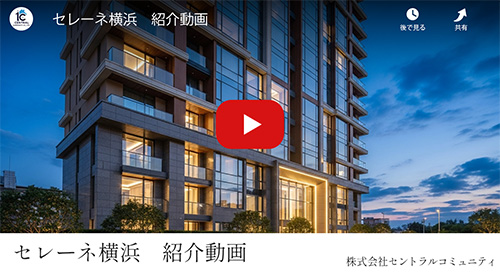
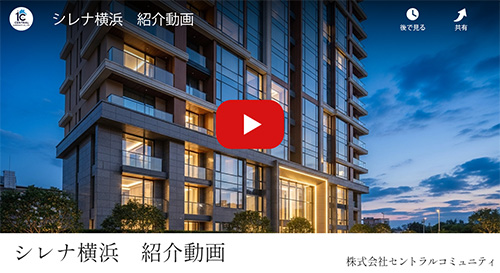
微調整とデータの整理

Changed region(s): [[0.12, 0.8791, 0.51, 0.967], [0.09, 0.0293, 0.42, 0.1172], [0.03, 0.9084, 0.06, 0.967]]

diff --git a/index.html b/index.html
@@ -6,7 +6,7 @@
   <meta name="viewport" content="width=device-width, initial-scale=1.0">
   <meta name="robots" content="noindex,nofollow">
   <title>CIRENA横浜｜神奈川県横浜市の新築分譲マンションならセントラルコミュニティ</title>
-  <meta name="description" content="現代的な美しさと贅沢な静けさが調和するCIRENA。海と空に開かれた眺望、都市の利便性、そして上質な住空間が新たな暮らしを輝かせます。">
+  <meta name="description" content="現代的な美しさと贅沢な静けさが調和するCIRENA横浜。海と空に開かれた眺望、都市の利便性、そして上質な住空間が新たな暮らしを輝かせます。">
   <meta name="keywords"
     content="マンション, タワーレジデンス, 高級マンション, 分譲マンション, モダンデザイン, 洗練, 眺望, オーシャンビュー, 静か, 贅沢, 資産価値, ラグジュアリー, 横浜, みなとみらい, CIRENA">
   <link rel="stylesheet" href="./css/reset.css">
@@ -121,7 +121,7 @@
       <p class="information-title">紹介動画</p>
       <a href="#x"><img src="./img/information-movie.jpg" width="500" height="273"
           alt="CIRENA横浜の魅力を紹介する動画。眺望、都市の利便性、上質な住空間を映像で紹介"></a>
-      <p class="information-text">CIRENAの魅力を3分で体感。<br>
+      <p class="information-text">CIRENA横浜の魅力を3分で体感。<br>
         建築美、眺望、共用施設、上質な暮らしを映像でご覧いただけます。</p>
     </section>
 
@@ -130,7 +130,7 @@
       <div class="divider"></div>
       <h3>進化を遂げる街の中心、文化と未来が交わる場所</h3>
       <div class="location-intro fade-in">
-        <img src="./img/location-img_01.jpg" width="1920" height="1048" alt="夕方、ランプの灯る海辺の煉瓦道">
+        <img src="./img/location-img_01.jpg" width="1920" height="484" alt="夕方、ランプの灯る海辺の煉瓦道">
         <p class="location-text">海と街が、家族の暮らしに寄り添う</p>
         <p class="location-text2">今も進化を続ける横浜。<br>
           多彩な商業と洗練された都市の景観が、日常を彩ります。</p>
@@ -163,7 +163,7 @@
         <div><img src="./img/location/location-shop_3.jpg" width="340" height="300"
             alt="ベーカリー『Le Soleil Bakery』まで徒歩3分（約0.2km）"></div>
       </div>
-      <img src="img/location.jpg" width="1920" height="1047" alt="CIRENA建設予定地をマークした周辺地図イメージ" class="fade-in">
+      <img src="img/location.jpg" width="1920" height="1047" alt="CIRENA横浜建設予定地をマークした周辺地図イメージ" class="fade-in">
       <p class="section-text">
         徒歩圏に揃う学び・暮らし・健やかさ。<br>
         教育・医療・商業・公園といった生活基盤が整うことで、安心感のある日常とともに、<br>

diff --git a/css/style.css b/css/style.css
@@ -501,7 +501,7 @@ h1 a {
     justify-content: space-between;
     margin: 50px 0;
     letter-spacing: 1.0px;
-    font-size: clamp(13px, 3vw, 16px);
+    font-size: clamp(13px, 3vw, 17px);
 }
 
 .information img {
@@ -603,7 +603,7 @@ h1 a {
 
     .information-btn {
         display: flex;
-        width: 700px;
+        width: 750px;
         margin: 50px auto;
         justify-content: space-between;
     }
@@ -611,7 +611,7 @@ h1 a {
     .button-red,
     .button-gold,
     .button-gray {
-        width: 200px;
+        width: 220px;
     }
 
     .info-content {
@@ -623,7 +623,7 @@ h1 a {
 /* ===== ロケーション ===== */
 
 .location-intro {
-    position: relative;
+    /* position: relative; */
     margin: 50px 0;
 }
 
@@ -633,26 +633,27 @@ h1 a {
 }
 
 .location-text {
-    font-size: clamp(16px, 3vw, 20px);
-    color: #3C3C3C;
-    position: absolute;
-    top: 5%;
-    right: 1%;
-    color: white;
+    font-size: clamp(16px, 3vw, 25px);
+    /* position: absolute; */
+    /* top: 5%;
+    right: 1%; */
+    /* color: white; */
+    text-align: center;
     padding: 0 20px;
-    text-shadow: 0 2px 6px rgba(0, 0, 0, 0.5);
+    /* text-shadow: 0 2px 6px rgba(0, 0, 0, 0.5); */
+    margin: 20px 0;
 }
 
 .location-text2 {
     font-size: clamp(11px, 2vw, 16px);
     color: #3C3C3C;
-    position: absolute;
-    bottom: 9%;
-    right: 1%;
-    color: white;
-    text-align: right;
+    /* position: absolute; */
+    /* bottom: 9%;
+    right: 1%; */
+    /* color: white; */
+    text-align: center;
     padding: 0 20px;
-    text-shadow: 0 2px 6px rgba(0, 0, 0, 0.9);
+    /* text-shadow: 0 2px 6px rgba(0, 0, 0, 0.9); */
 }
 
 .slick-slider img {
